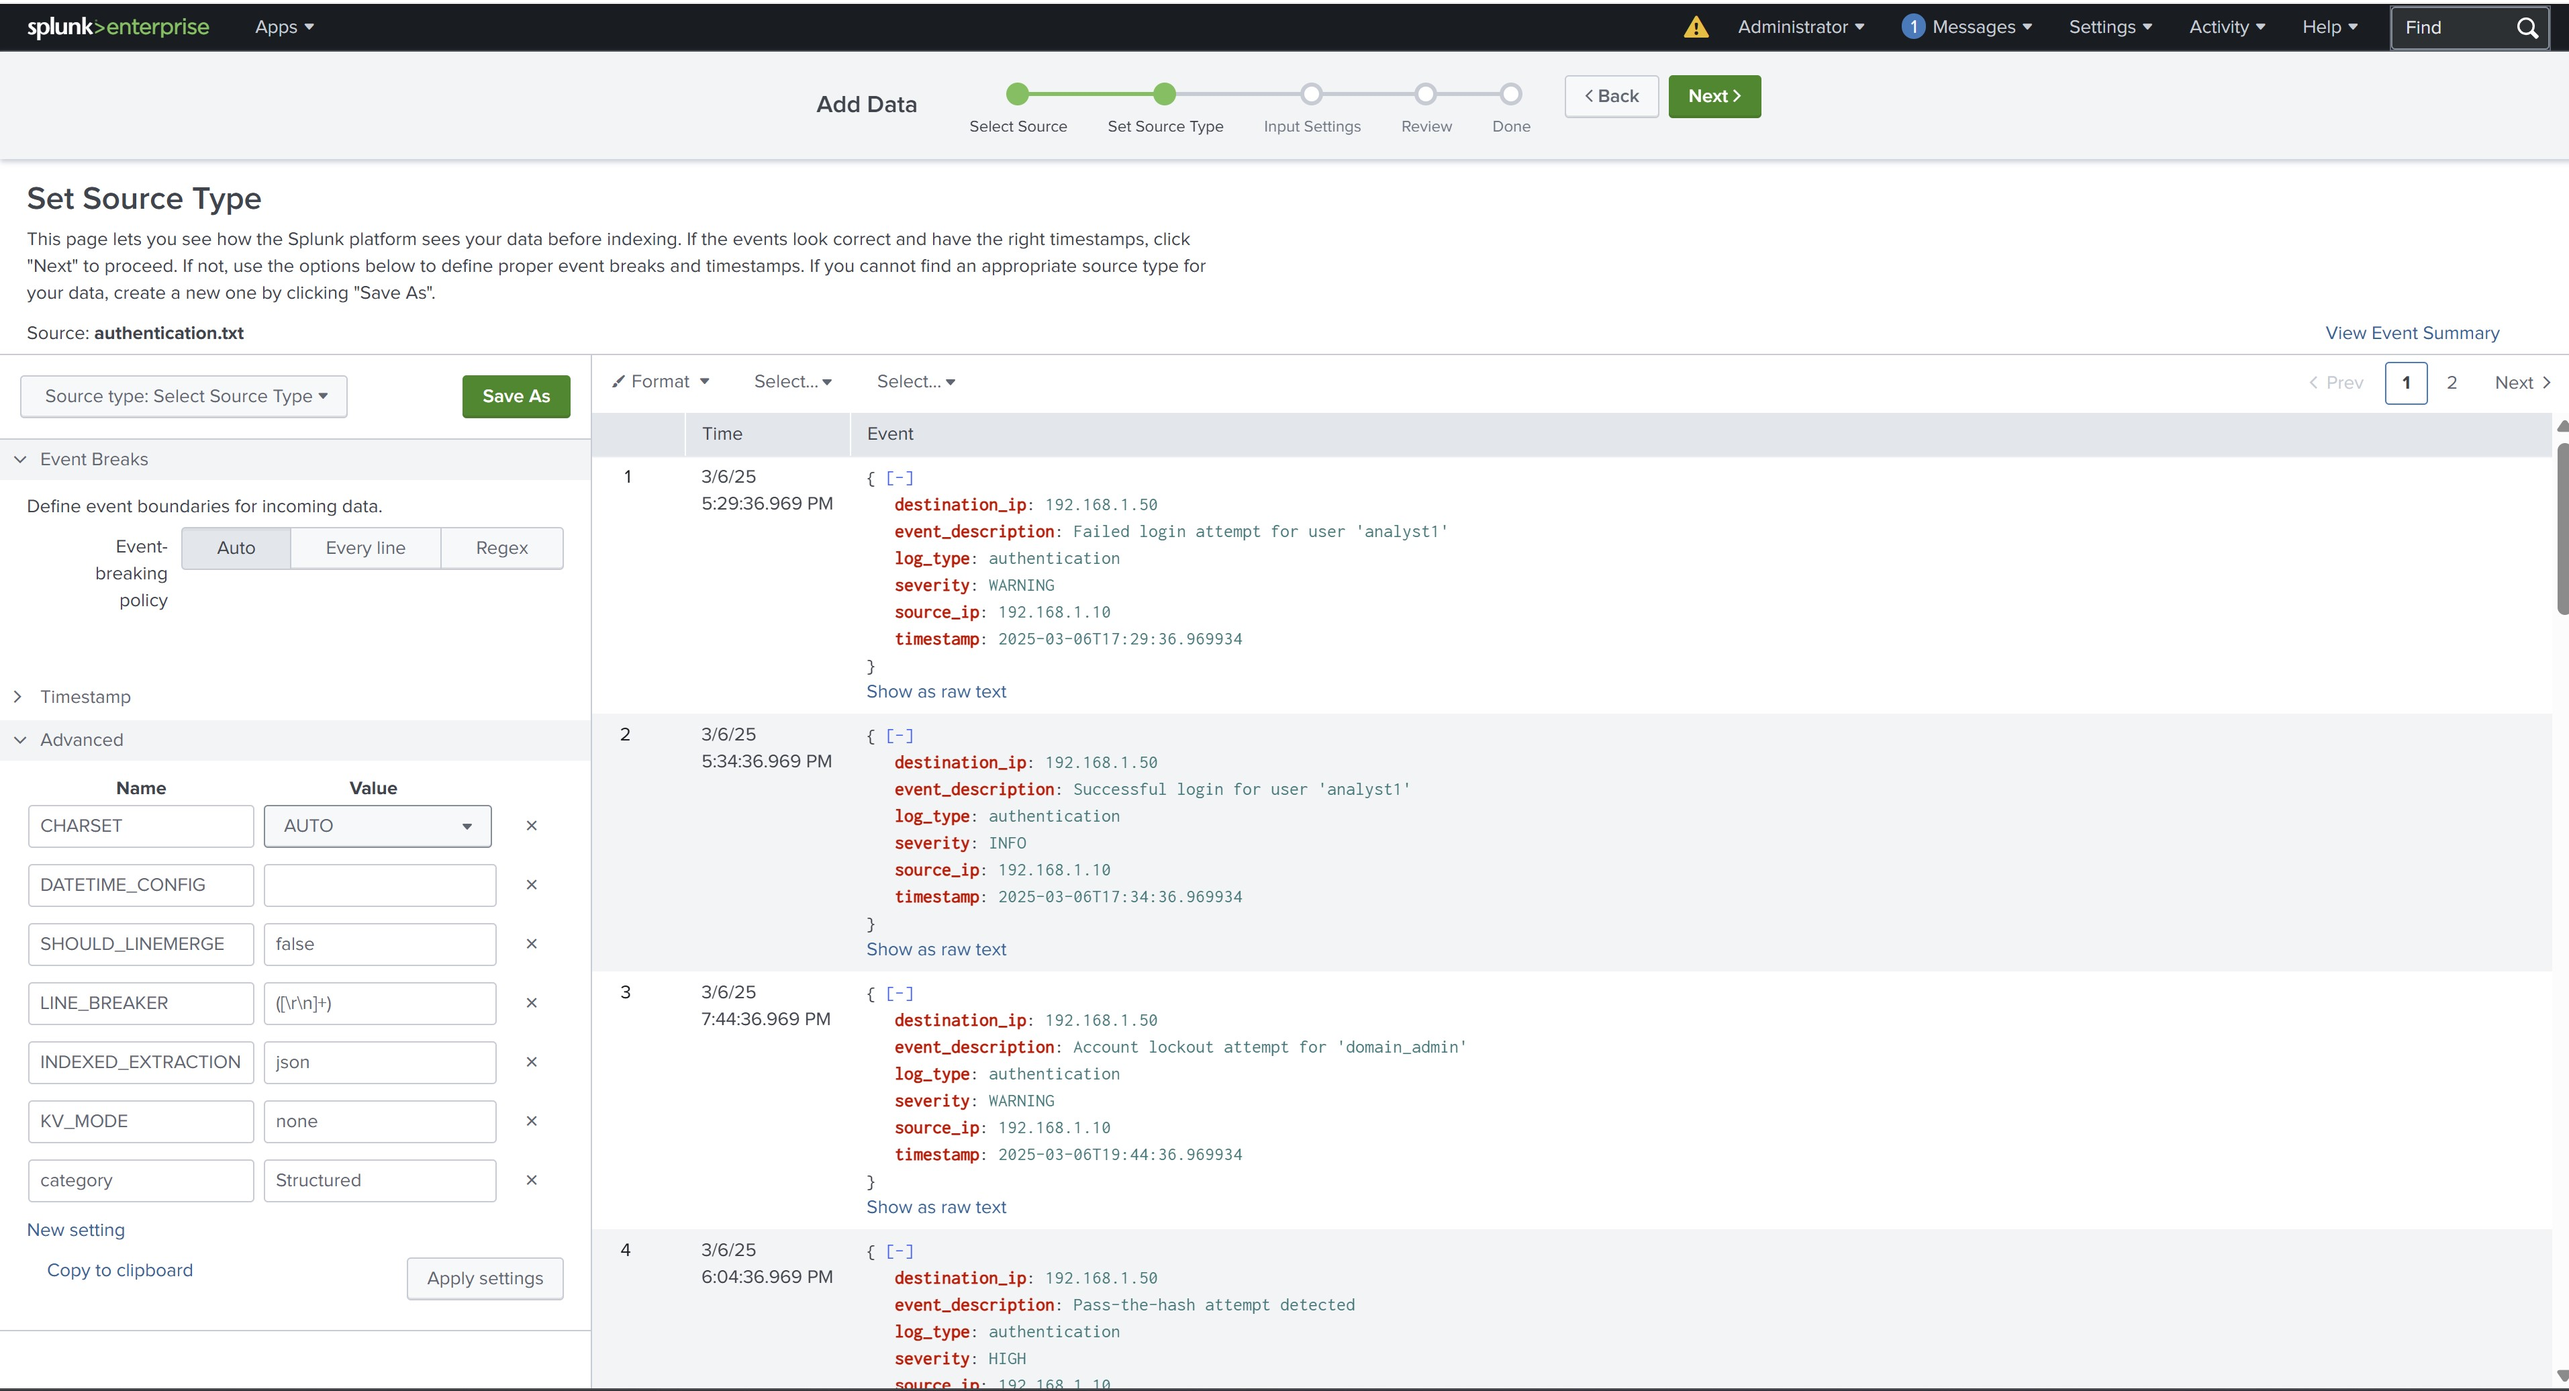
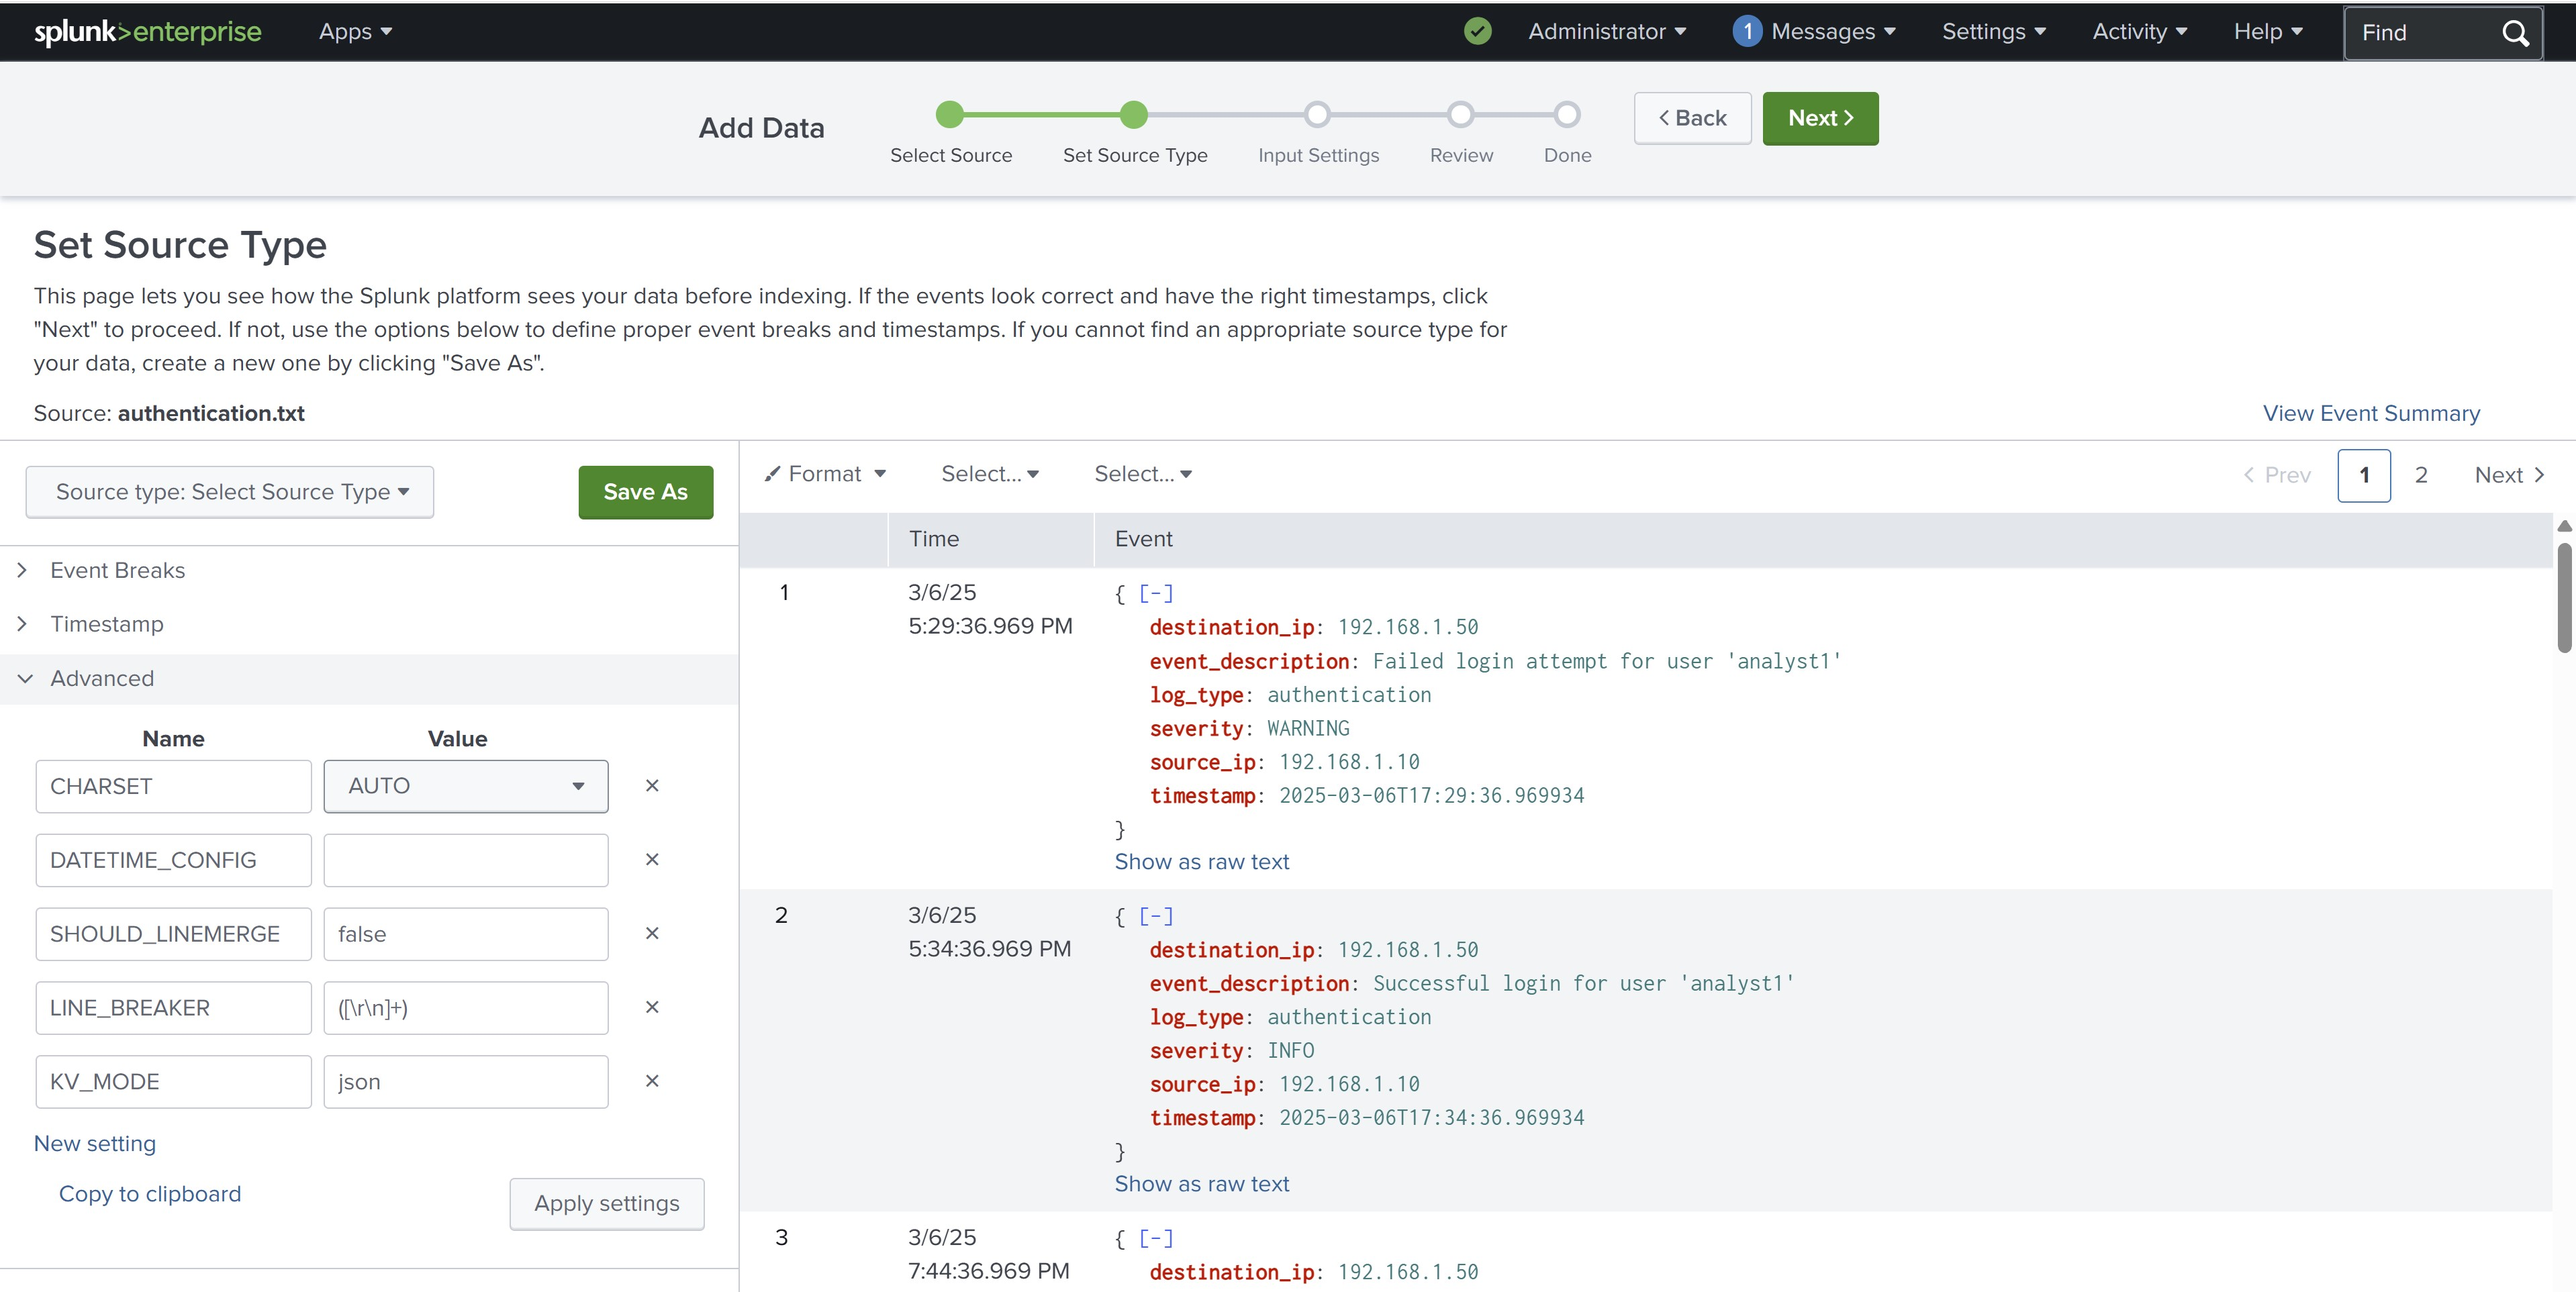
Edits to Readme and added dataset

diff --git a/README.md b/README.md
@@ -4,7 +4,7 @@
 
 ## 1. Project Overview
 
-This project demonstrates the end-to-end process of ingesting, parsing, and detecting security incidents using **Splunk Enterprise** and **Splunk Security Essentials (SSE)**. Using three simulated log files representing a real-world attack chain against a fictional organisation (Apex Financial), the project covers the full pipeline from raw log ingestion through to scheduled detection alerts mapped to the MITRE ATT&CK framework.
+This project demonstrates the end-to-end process of ingesting, parsing, and detecting security incidents using **Splunk Enterprise** and **Splunk Security Essentials (SSE)**. Using three simulated log files representing a real-world attack chain against a fictional organisation (Apex Financial), the project covers the full pipeline from raw log ingestion through to scheduled detection alerts and showing the potential of SSE.
 
 The attack scenario spans a complete kill chain: a spear-phishing email delivering a malicious macro, credential attacks including pass-the-hash, lateral movement via WMI and PsExec, persistence via scheduled task and registry modification, and culminating in ransomware execution (ShadowCrypt).
 
@@ -16,7 +16,7 @@ The attack scenario spans a complete kill chain: a spear-phishing email deliveri
 
 ### Why Splunk in Incident Response?
 
-Splunk is one of the most widely deployed SIEM (Security Information and Event Management) platforms in enterprise security operations. During an incident, Splunk serves as the central log aggregation and analysis engine — allowing analysts to:
+Splunk is one of the most widely deployed SIEM (Security Information and Event Management) platforms in enterprise security operations. During an incident, Splunk serves as the central log aggregation and analysis engine, which allows analysts to:
 
 - **Correlate events** across multiple data sources (authentication, endpoint, email, network) in a single search
 - **Detect attack patterns** through scheduled searches and correlation rules that fire when suspicious conditions are met
@@ -29,9 +29,9 @@ Splunk is used at **every phase of the IR lifecycle**:
 |---|---|
 | Preparation | Onboarding data sources, building detection rules |
 | Detection | Scheduled alerts and correlation searches fire on anomalies |
-| Analysis | SPL queries pivot across indexes to reconstruct attack timeline |
+| Analysis | SPL queries pivot across indexes to reconstruct attack timeline. Mapping to MITRE. |
 | Containment | Identifying scope (which hosts, users, IPs are affected) |
-| Eradication | Confirming malicious artefacts are no longer present in logs |
+| Eradication | Confirming malicious artifacts are no longer present in logs |
 | Recovery | Monitoring for re-infection or persistence mechanisms |
 | Lessons Learned | Refining detection rules based on what was missed |
 
@@ -40,7 +40,7 @@ Splunk is used at **every phase of the IR lifecycle**:
 Working through this project develops practical skills in:
 - Splunk architecture — indexes, sourcetypes, forwarders, props.conf
 - SPL (Search Processing Language) — stats, eval, join, where, table
-- CIM (Common Information Model) — normalising data for cross-source correlation
+- CIM (Common Information Model) — normalising data for cross-source correlation (used by SSE)
 - Detection engineering — writing rules based on behavioural indicators rather than signatures
 - MITRE ATT&CK mapping — linking detections to real-world adversary techniques
 - Splunk Security Essentials — navigating a production security content library
@@ -100,8 +100,7 @@ Custom Detection Rules (SPL Saved Searches → Scheduled Alerts)
   ├── Credential Attack Detection
   ├── High Severity Endpoint Activity
   ├── Phishing-to-Auth Escalation (cross-index join)
-  ├── Lateral Movement (dc of destination IPs)
-  └── Kill Chain Severity Progression
+  └── Lateral Movement (dc of destination IPs)
         │
         ▼
 Triggered Alerts → index=main (sourcetype=school:alerts)
@@ -117,8 +116,7 @@ Splunk Security Essentials
 Each log file was uploaded via **Settings → Add Data → Upload**. During the Set Source Type stage the following advanced settings were configured manually:
 
 ```ini
-INDEXED_EXTRACTION = json
-KV_MODE = none
+KV_MODE = json
 SHOULD_LINEMERGE = false
 LINE_BREAKER = ([\r\n]+)
 ```
@@ -167,7 +165,7 @@ severity IN ("CRITICAL", "HIGH")
     severity="CRITICAL", "Critical Endpoint Threat",
     severity="HIGH", "High Severity Endpoint Event"
 )
-| table _time, source_ip, severity, detection
+| table source_ip, severity, detection
 ```
 
 **Detection 3 — Phishing-to-Auth Escalation (cross-index)**
@@ -185,11 +183,12 @@ index=email_logs
 
 **Detection 4 — Lateral Movement**
 ```spl
-index=auth_logs
-| stats dc(destination_ip) as targets by source_ip
-| where targets >= 3
+index=endpoint_logs
+severity IN ("HIGH", "CRITICAL")
+| where destination_ip != "N/A"
+| stats count as tool_count, values(event_description) as activity, values(destination_ip) as destination by source_ip
 | eval detection="Potential Lateral Movement"
-| table source_ip, targets, detection
+| table source_ip, destination, tool_count, activity, detection
 ```
 
 
@@ -232,7 +231,7 @@ Splunk Security Essentials is a free app available on Splunkbase that extends Sp
 
 SSE was installed from a `.tar.gz` package via **Apps → Manage Apps → Install app from file**. After restart, the Splunk CIM Add-on was installed and custom products were manually added in **Data → Data Inventory** for each of the three data sources.
 
-However, the free trial combined with this log setup makes it difficult to get a realistic example of SSE working end to end. The majority of SSE's most relevant detections require either Splunk Enterprise Security (the paid premium product) or data that conforms strictly to Splunk's Common Information Model via properly tagged sourcetypes and accelerated data models. Custom JSON logs uploaded manually — as used in this lab — lack the CIM-normalised fields that SSE detections expect, meaning most searches either return no results or fall back to demo data rather than firing against the actual indexed events.
+However, the free trial combined with this log setup makes it difficult to get a realistic example of SSE working end to end. The majority of SSE's most relevant detections require either Splunk Enterprise Security (the paid premium product) or data that conforms strictly to Splunk's Common Information Model via properly tagged sourcetypes and accelerated data models. Custom JSON logs uploaded manually, as used in this lab, lack the CIM-normalised fields that SSE detections expect, meaning most searches either return no results or fall back to demo data rather than firing against the actual indexed events.
 
 ---
 
@@ -270,19 +269,6 @@ All five scheduled alerts fired successfully, visible in `index=main sourcetype=
 
 ![Fired alerts in Splunk showing detection events](images/Fired_alerts.jpg)
 
-### MITRE ATT&CK Coverage
-
-| Tactic | Technique | Detected |
-|---|---|---|
-| Initial Access | T1566 - Phishing | ✅ |
-| Execution | T1059 - Command & Scripting | ✅ |
-| Credential Access | T1550.002 - Pass the Hash | ✅ |
-| Credential Access | T1110 - Brute Force | ✅ |
-| Lateral Movement | T1047 - WMI | ✅ |
-| Lateral Movement | T1569 - PsExec | ✅ |
-| Persistence | T1053 - Scheduled Task | ✅ |
-| Persistence | T1547 - Registry Run Keys | ✅ |
-| Impact | T1486 - Data Encrypted for Impact | ✅ |
 
 ### Key Finding
 
@@ -296,9 +282,9 @@ The primary threat actor IP `192.168.1.10` appeared across all three log sources
 
 **Detection engineering without signatures is possible and more robust.** The most important lesson from this project was rewriting detection rules to avoid pattern matching on `event_description` — a field that wouldn't exist in real raw logs. By building detections on `severity`, `source_ip`, `dc(destination_ip)`, and cross-index joins, the rules became vendor-agnostic and would function on any normalised log source.
 
-**CIM normalisation is the prerequisite for everything.** SSE, data models, and any Splunk security app all depend on data being mapped to CIM. Getting data into an index is only half the job — normalising it to a common schema is what makes it actionable across tools.
+**CIM normalisation is the prerequisite for everything.** SSE, data models, and any Splunk security app all depend on data being mapped to CIM. Getting data into an index is only half the job, normalising it to a common schema is what makes it actionable across tools.
 
-**Static log files require special handling.** Because the incident logs had fixed timestamps from March 2025, scheduled alerts needed to be set to "All time" rather than a rolling window. In a live environment with a Universal Forwarder streaming events in real time, this wouldn't be an issue — but it's an important consideration when building detection labs from historical data.
+**Static log files require special handling.** Because the incident logs had fixed timestamps from March 2025, scheduled alerts needed to be set to "All time" rather than a rolling window. In a live environment with a Universal Forwarder streaming events in real time, this wouldn't be an issue, but it's an important consideration when building detection labs from historical data.
 
 **The kill chain is visible in the data when you know where to look.** Without any threat intelligence or prior knowledge, the multi-stage attack progression from phishing to ransomware was fully reconstructable from three log files using basic SPL. The attacker's primary IP (`192.168.1.10`) appeared in every stage, and the time-ordered sequence of severity escalations told the complete story.
 
@@ -314,9 +300,7 @@ The primary threat actor IP `192.168.1.10` appeared across all three log sources
 - **Add a Universal Forwarder** to stream live log data rather than static uploads, making scheduled alerts function with rolling time windows
 - **Implement Sysmon** as the endpoint log source to replace the simulated `event_description` field with real Windows telemetry (EventIDs, process trees, command lines)
 - **Build a detection dashboard** consolidating all five alert feeds into a single incident timeline view
-- **Expand to network logs** — adding firewall or DNS data would enable detection of C2 communication and data exfiltration stages not covered by the current three sources
+- **Expand to network logs** adding firewall or DNS data would enable detection of C2 communication and data exfiltration stages not covered by the current three sources
 - **Upgrade to Splunk Enterprise Security** to access the full correlation search framework, risk-based alerting, and Notable Events workflow used in production SOC environments
 
 ---
-
-*Project completed April 2026 | Splunk Enterprise Trial | Splunk Security Essentials 3.8*
